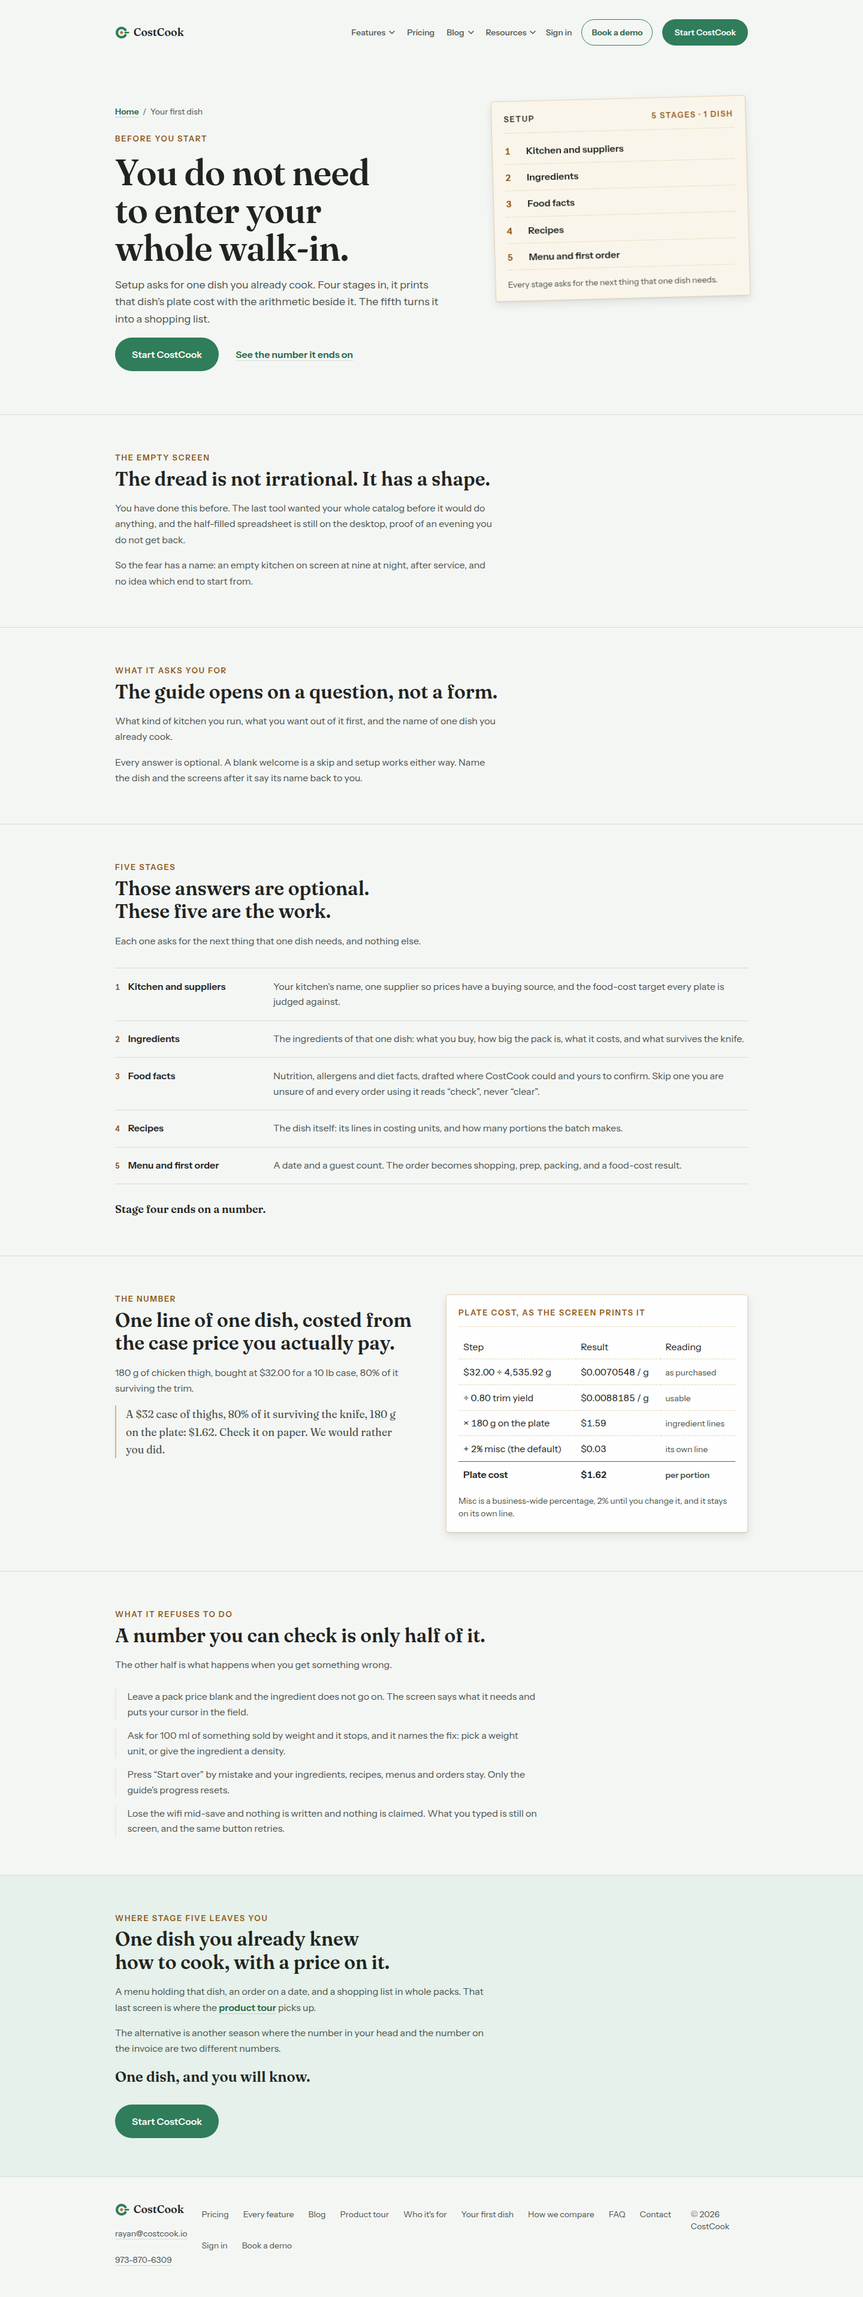
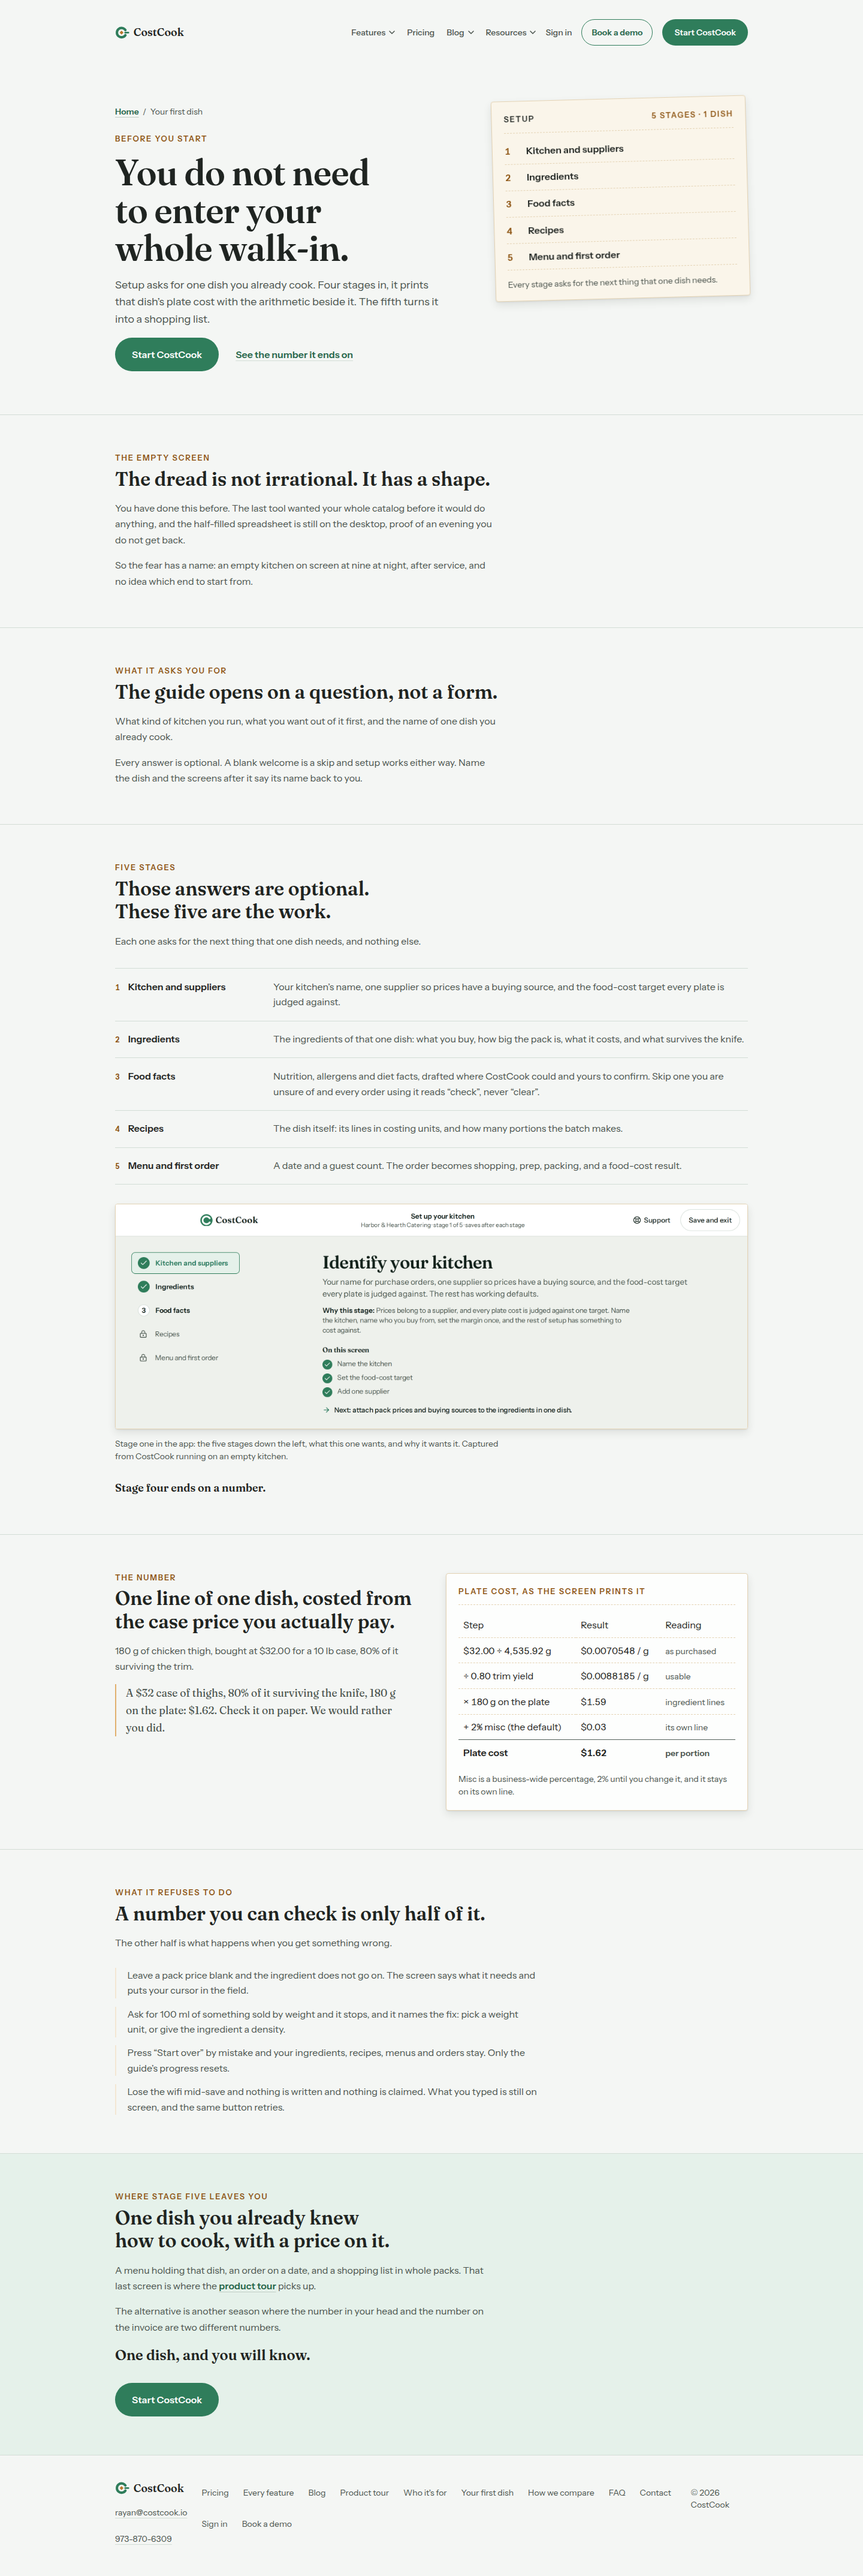
feat(setup): show the five stages in the running app, not just in a table
The five-stage section was the most text-heavy part of /first-dish. It now
carries one capture of stage one, with the rail beside it reading the same
five names as the table above: Kitchen and suppliers, Ingredients, Food
facts, Recipes, Menu and first order. The app's own header says "stage 1 of
5", which is the claim RC-10 makes, made visible.

The 18 captures already in kitchen-brain artifacts/onboarding-rehearsal could
not be used. Every one shows the SIX-stage rail (Costing defaults, Business
and suppliers, Ingredients, Recipes, Menu, First order) that was consolidated
into five. Shipping one would have put a six-stage picture beside a
five-stage sentence: the $1.59-vs-$1.62 defect again, in pictures.

capture-proof.mjs could not take a fresh one either: it drives the demo
world, and RC-13 puts a populated kitchen into review mode, so the stepper
never renders there. capture-setup-proof.mjs drives the empty kitchen that
e2e/prepare-db.mjs and e2e/provision-owner.ts build, at the same device
scale 2 and the same 1440 CSS px viewport, clipped to measured ink rather
than a rectangle chosen by eye. The fixture business is renamed off "E2E
First Kitchen" first, and the page contract fails if any test identity
reaches the HTML.

Held by contracts that read the artifact, not a remembered number: the build
check reads the PNG header and fails if the markup's width and height
disagree with it, or if the capture is narrow enough that a 1152px container
[…]

diff --git a/docs/release-claim-ledger.md b/docs/release-claim-ledger.md
@@ -87,7 +87,7 @@ Unless a row says otherwise, shipped evidence is read at the demo-base commit an
 | RC-54 | Previously loaded order Shop, Prep and Pack pages can remain readable without a signal and identify when their cached copy was loaded. An unseen page receives the offline fallback, and actions that write data still need a connection. Separately, core server-rendered pages remain readable with JavaScript disabled while connected. | Shipped resilience boundary, audited on `sandbox/demo` `f44c9393973244b8b7f62edaf98c1bd0362162ce` on 2026-08-30 | Service worker and offline route coverage; order workspace cache metadata; server-rendered route output and no-JavaScript checks | Load representative Shop, Prep and Pack pages, go offline and revisit them; open one unseen route for the fallback; attempt a write offline; repeat a connected read with JavaScript disabled. |
 | RC-50 | Nutrition labels print from the recipe. `src/routes/catalog/recipes/[id]/nutrition-label/` on `sandbox/demo` e8b69fe4 is a live read model (the label and the recipe detail read the same calculation), reached by the "Print nutrition label" button on every saved recipe, with no release flag in front of it; the sheet carries the kitchen name, the Nutrition Facts panel, the ingredient statement in recipe order, the allergen review line, the nutrition sources and the print time, and states on the sheet that it is a calculated estimate and not a claim of retail-label regulatory compliance. It prints through the browser onto label stock; sending it to a label printer is `label_printing` and remains in development (RC-35). Public copy may say the panel prints from the recipe and must carry the estimate-not-compliance boundary wherever it says so; it may not say "compliant", "FDA-approved" or that a printer is connected. The homepage captures are the recipe's Nutrition section and the printed sheet for Chicken Shawarma in the demo world, with ingredients matched to USDA FoodData Central records through the app's own search on 2026-08-29. | Shipped compliance | `nutrition-label/+page.server.ts` and `+page.svelte`; `RecipeNutrition.svelte` (the button, unconditional); `NutritionFactsLabel.svelte`; `src/lib/comparison.ts` row 'Printed USDA nutrition labels' now `yes`; captures `public/proof/nutrition-panel.png`, `nutrition-label.png` | Open a saved recipe on the deployed app, press Print nutrition label, and read the footer sentence on the sheet. If the button is ever flagged off or the footer sentence changes, this row moves first and every surface follows it. |
 | RC-51 | Kitchen date and allergen labels are built in the app and marked Coming. On `sandbox/demo` c01bf751 (read 2026-08-29): `src/routes/labels/new` (one endpoint posted to from prep, pack, recipe and ingredient), `src/routes/labels/print/[id]` (renders the frozen document; a reprint reproduces it unchanged), `src/routes/labels/shelf-life` (the tap that saves a shelf-life fact), `src/lib/domain/labeling/label-dates.ts` (a use-by date is chosen by the cook: saved rule, days, exact date, or made-date only; never guessed), `label-stock.ts` (30-up sheet, 58 and 62 mm rolls, 2 × 1 in die-cut, custom 20 to 220 mm), `src/lib/labels/transport.ts` (OUTPUT_METHODS = ['browser'] only; the direct transport is a seam, not a build), `src/lib/components/labels/LabelDialog.svelte` (storage condition with no default, container count, the sticker preview, "A blank label is not an all-clear"). Gated by `label_printing` in `src/lib/server/features/access.ts` (env `FEATURE_LABEL_PRINTING_ENABLED`, default off, per-business override) and by RC-35. | Built, flagged, marked Coming | `src/lib/labels.ts` (`LABELS_STATUS = 'coming'`, the one word every surface reads), `src/components/sections/LabelsPrintingFeature.astro`, `src/pages/features/labels-and-printing.astro`, `src/lib/features.ts` labels group and menu item, `src/lib/comparison.ts` row note, `src/lib/faq.ts` #label-printing; captures `public/proof/labels/*.png` from `scripts/capture-labels-proof.mjs` with the flag on for the demo business; story `docs/stories/labels-printing.story.md` | The word flips to yes only when the owner changes RC-35 and the deployed default (or the business override) is on; then set `LABELS_STATUS` and rewrite the status sentence, not soften it. No sentence may say a label reaches a printer on its own while `transport.ts` lists only the browser. Rerun the capture script when the dialog changes. |
-| RC-48 | A homepage product image is a capture of the running app in the demo world (`sandbox/demo`, the tour's kitchen and order), taken by `scripts/capture-proof.mjs` at device scale 2 and rendered at half its pixel width, never a frame of the video, a mockup, a composite, or a retouched capture. Public figures name the product evidence they show without exposing internal branch or build provenance, and their alt text reads off the pixels word for word. The pricing-panel crop in the hero, the four crops in the outcomes section, the yield table with its line calculation open, the nutrition panel and label sheet, and the Sage answer are the current set. | Landing proof | `scripts/capture-proof.mjs` (one command retakes all twelve; desktop clips at 1440 CSS px, phone clips at 390, element-bounded, cursor parked, animations off); `public/proof/*.png`; `src/components/sections/Hero.astro`, `CustomerOutcomes.astro`, `TheYield.astro`, `NutritionFacts.astro`, `Sage.astro`, `src/lib/nutrition.ts`, `src/lib/sage.ts`; story `docs/stories/homepage-captures.story.md` | Run the script against the demo world and diff the PNGs; read every alt against its image; confirm every `<img>` renders at half its `width` attribute or narrower. Confirm rendered public pages contain neither `SANDBOX BUILD` nor `sandbox/demo`. When the app's screens change, rerun the script in the same pass that rewrites the alts. Sage is captured from the Sage fixture container and skipped, never faked, when it is down. |
+| RC-48 | A homepage product image is a capture of the running app in the demo world (`sandbox/demo`, the tour's kitchen and order), taken by `scripts/capture-proof.mjs` at device scale 2 and rendered at half its pixel width, never a frame of the video, a mockup, a composite, or a retouched capture. Public figures name the product evidence they show without exposing internal branch or build provenance, and their alt text reads off the pixels word for word. The pricing-panel crop in the hero, the four crops in the outcomes section, the yield table with its line calculation open, the nutrition panel and label sheet, and the Sage answer are the current set. UPDATED 2026-09-05: /first-dish adds one capture from a DIFFERENT world and a different script, because the demo world cannot show it. RC-13 puts a populated kitchen into review mode, so the five-stage stepper never renders there; `scripts/capture-setup-proof.mjs` drives the empty kitchen that `e2e/prepare-db.mjs` and `e2e/provision-owner.ts` build, at the same device scale 2 and the same 1440 CSS px viewport, clipped to an element box. The fixture business is renamed off "E2E First Kitchen" before the shot so no test identity ships. `public/proof/setup/01-kitchen.png` joins the set. The 18 PNGs in kitchen-brain `artifacts/onboarding-rehearsal/260814a/` may NOT be used on any surface: every one shows the superseded six-stage rail that RC-10 replaced. | Landing proof | `scripts/capture-setup-proof.mjs` (the setup shot, empty kitchen); `scripts/capture-proof.mjs` (one command retakes all twelve; desktop clips at 1440 CSS px, phone clips at 390, element-bounded, cursor parked, animations off); `public/proof/*.png`; `src/components/sections/Hero.astro`, `CustomerOutcomes.astro`, `TheYield.astro`, `NutritionFacts.astro`, `Sage.astro`, `src/lib/nutrition.ts`, `src/lib/sage.ts`; story `docs/stories/homepage-captures.story.md` | Run the script against the demo world and diff the PNGs; read every alt against its image; confirm every `<img>` renders at half its `width` attribute or narrower. Confirm rendered public pages contain neither `SANDBOX BUILD` nor `sandbox/demo`. When the app's screens change, rerun the script in the same pass that rewrites the alts. Sage is captured from the Sage fixture container and skipped, never faked, when it is down. |
 | RC-55 | What an empty kitchen's setup does when the owner gets something wrong, and the arithmetic it ends on. Verified 2026-08-17 in `artifacts/onboarding-rehearsal/260817a/results.md` (32 of 32 browser tests plus a manual gap drive confirmed against the database, not the screen): a dish of one line, 180 g chicken thigh bought at $32.00 per 10 lb case at 80% trim yield, prints `Ingredient lines $1.59 - Misc (2%) $0.03 - Plate cost $1.62`; the misc percent is business-wide and defaults to 2. The pack step refuses to advance without a price (B-PRICE). A volume unit on a weight ingredient is refused with a `role="alert"` that names density as the fix (G-UNIT). `Start over` resets guide progress only and deletes no ingredient, recipe, menu, or order (A-STARTOVER). A save that does not reach CostCook keeps every typed value on screen, writes nothing, claims nothing, and retries from the same button (finding 1, fixed and held by a test). Public copy may state the arithmetic where it labels misc as the 2% default, and may NOT claim real invoice or recipe extraction on this evidence (`IMPORT_AI_PROVIDER: 'stub'` pins both test layers), may NOT describe the sample-data path (presence checked only, untested at both layers), and may NOT state a setup duration. The food-facts stage carries one further boundary, read off `stage-guide.ts` on the same commit: an ingredient the owner skips is recorded as unknown, and unknown is never clear, so every order using it reads "check" and names the ingredient. Public copy may say that and may not soften "check" to "clear" or imply a skipped ingredient is safe. | Setup release | `artifacts/onboarding-rehearsal/260817a/results.md` on `sandbox/demo` 3a7757f9; `src/lib/features/onboarding/stage-guide.ts` allergens `terms` ("don't know": "Unknown is never clear: the order says 'check' and names the ingredient."); `src/lib/server/onboarding/progress.ts:175` composes the stage card's plate cost through the shared `plateCost(..., settings.miscCostPct)`, so the card and the builder cannot disagree; `e2e/setup-wizard.spec.ts`; `src/components/sections/FirstDishPage.astro`; story `docs/stories/first-dish.story.md` | Re-drive an empty kitchen, check the four guards, and check $1.62 by hand. If `DEFAULT_ONBOARDING_MISC_COST_PCT` changes, the page's misc line and total move with it. |
 
 ## Claims that are intentionally excluded

diff --git a/docs/stories/first-dish.story.md b/docs/stories/first-dish.story.md
@@ -134,6 +134,15 @@
   - 169px of horizontal overflow at 390px: grid children default to
     `min-width: auto`, so the nowrap arithmetic table widened its column
     instead of scrolling inside it.
+- **Visual added after review:** §4 was the most text-heavy part of the page,
+  so it now carries one capture of the running app: stage one, with the
+  five-stage rail beside it. The rail in the picture reads the same five names
+  as the table above it, which is the point. The 18 existing rehearsal
+  captures could NOT be used: every one shows the superseded six-stage rail
+  (Costing defaults, Business and suppliers, Ingredients, Recipes, Menu, First
+  order), so shipping one would have put a six-stage image beside a
+  five-stage sentence. `scripts/capture-setup-proof.mjs` takes a fresh one off
+  an empty kitchen, and RC-48 records the provenance.
 - **Fixed after code review:**
   - The arithmetic table's scroll container took no keyboard focus and had no
     name. At 390px its whole value column, the $1.62 included, sits off-screen,
